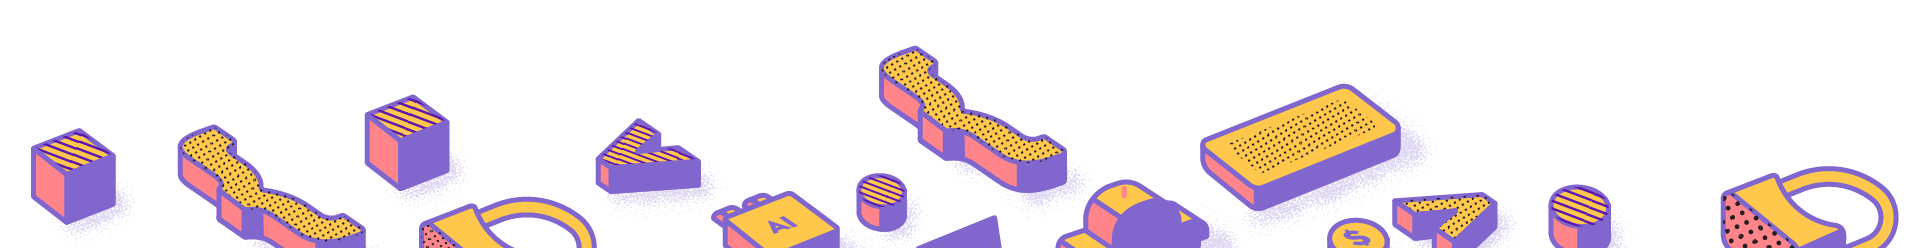
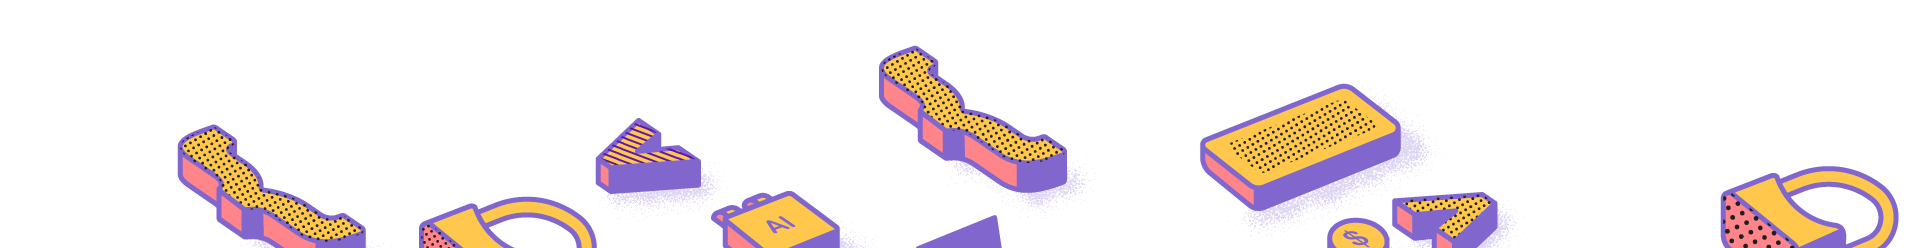
:sparkles: Init animated footer

diff --git a/src/index.html b/src/index.html
@@ -685,8 +685,22 @@
     </div>
 
     <div>
-      <img src="img/footer@mobile.png" alt="InOut Footer Image" class="img-fluid d-block d-lg-none" />
-      <div id="footerImage" class="d-none d-lg-block"></div>
+      <img src="img/footer-mobile@2x.png" srcset="mg/footer-mobile.png 1x, mg/footer-mobile@2x.png 2x" alt="Footer Image" class="img-fluid d-block d-md-none"
+      />
+      <div id="footerImage" class="d-none d-md-block">
+        <img src="img/footer@2x.png" srcset="img/footer.png 1x, img/footer@2x.png 2x" alt="Footer Image" class="img-fluid background"
+        />
+
+        <img src="img/art-circle-2@2x.png" srcset="img/art-circle-2.png 1x, img/art-circle-2@2x.png 2x" alt="circle" class="art-item circle c1"
+        />
+        <img src="img/art-circle-2@2x.png" srcset="img/art-circle-2.png 1x, img/art-circle-2@2x.png 2x" alt="circle" class="art-item circle big c2"
+        />
+
+        <img src="img/art-box@2x.png" srcset="img/art-box.png 1x, img/art-box@2x.png 2x" alt="box" class="art-item box b1" />
+        <img src="img/art-box@2x.png" srcset="img/art-box.png 1x, img/art-box@2x.png 2x" alt="box" class="art-item box b2" />
+
+        <img src="img/art-car@2x.png" srcset="img/art-car.png 1x, img/art-car@2x.png 2x" alt="car" class="art-item vehicle v1" />
+      </div>
       <div class="footer-container">
         <div class="container">
 

diff --git a/src/scss/_footer.scss b/src/scss/_footer.scss
@@ -74,21 +74,54 @@
   padding-bottom: 0;
 
   #footerImage {
-    background: url("../img/footer.png");
-    background-repeat: no-repeat;
-    background-position: center;
-    width: 100%;
-    height: 248px;
+    position: relative;
 
-    // Retina Display
-    @media only screen and (-webkit-min-device-pixel-ratio: 1.25),
-      only screen and (min--moz-device-pixel-ratio: 1.25),
-      only screen and (-o-min-device-pixel-ratio: 1.25/1),
-      only screen and (min-device-pixel-ratio: 1.25),
-      only screen and (min-resolution: 200dpi),
-      only screen and (min-resolution: 1.25dppx) {
-      background: url("../img/footer@2x.png");
-      height: 496px;
+    .background {
+      width: 100%;
+    }
+
+    .art-item {
+      position: absolute;
+      height: auto;
+
+      &.circle {
+        width: 4.5%;
+
+        &.big {
+          width: 5.5%;
+        }
+
+        &.c1 {
+          top: 52%;
+          left: 43%;
+        }
+        &.c2 {
+          top: 56%;
+          left: 84%;
+        }
+      }
+
+      &.box {
+        width: 6.5%;
+
+        &.b1 {
+          top: 46%;
+          left: 2%;
+        }
+        &.b2 {
+          top: 77%;
+          left: 55%;
+        }
+      }
+
+      &.vehicle {
+        width: 11%;
+
+        &.v1 {
+          top: 36%;
+          left: 17%;
+        }
+      }
     }
   }
 
